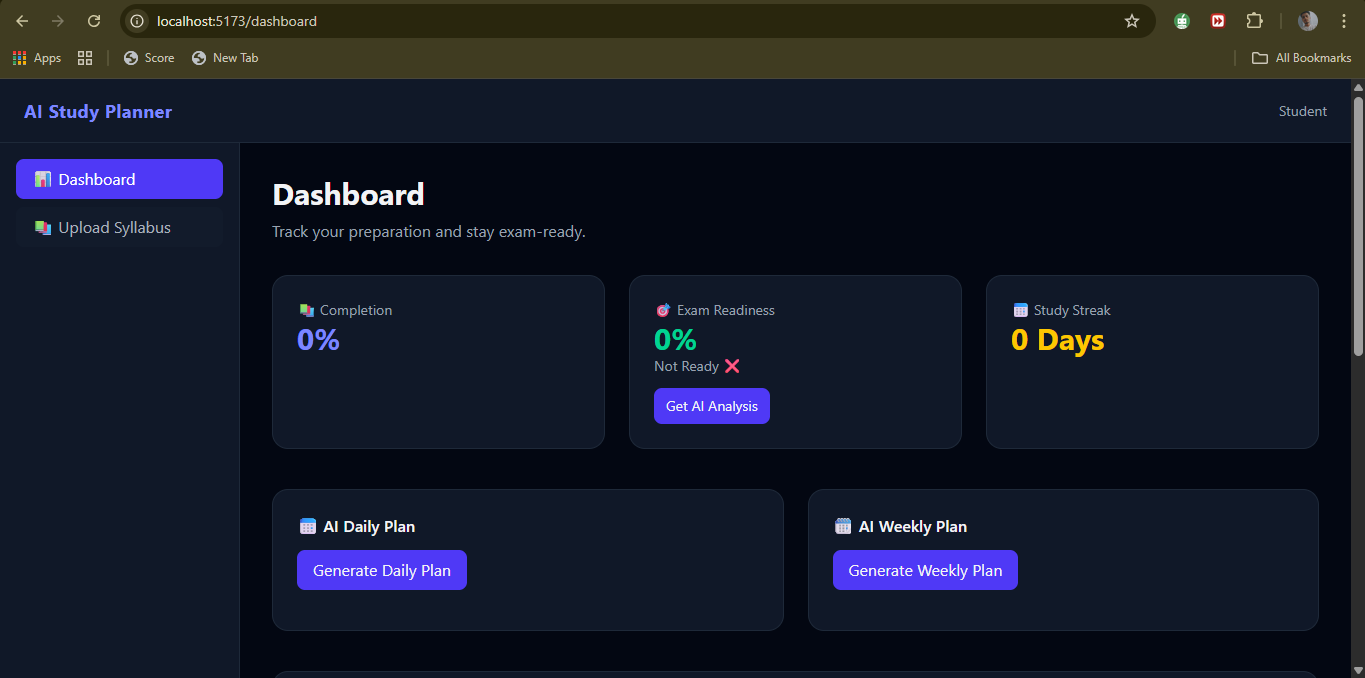
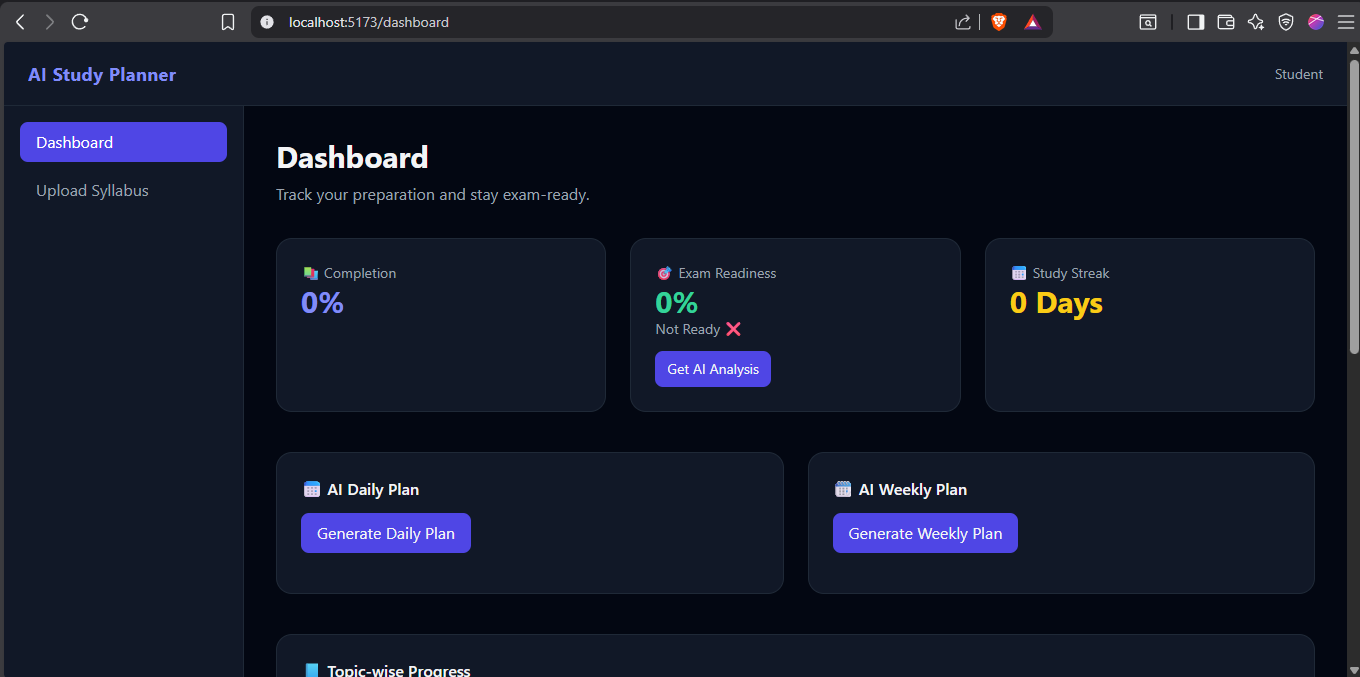
Updated Home page and readm

diff --git a/client/src/pages/Landing.jsx b/client/src/pages/Landing.jsx
@@ -1,119 +1,247 @@
 import { useNavigate } from "react-router-dom"
 import { motion } from "framer-motion"
+import {
+  Brain,
+  Upload,
+  BarChart3,
+  Target,
+  Sparkles,
+  BookOpen,
+} from "lucide-react"
 
 export default function Landing() {
   const navigate = useNavigate()
 
+  const features = [
+    {
+      icon: <Brain size={28} />,
+      title: "AI Smart Planning",
+      desc: "Generate personalized study roadmaps based on syllabus, goals, and exam timelines.",
+    },
+    {
+      icon: <Target size={28} />,
+      title: "Weakness Detection",
+      desc: "Identify weak subjects automatically and focus on the topics that matter most.",
+    },
+    {
+      icon: <BarChart3 size={28} />,
+      title: "Progress Tracking",
+      desc: "Visualize your consistency, completion rate, and overall exam readiness score.",
+    },
+    {
+      icon: <Upload size={28} />,
+      title: "Syllabus Upload",
+      desc: "Upload your syllabus or notes and let AI organize everything instantly.",
+    },
+    {
+      icon: <BookOpen size={28} />,
+      title: "Daily Study Goals",
+      desc: "Get structured daily tasks and maintain a productive study streak effortlessly.",
+    },
+    {
+      icon: <Sparkles size={28} />,
+      title: "AI Recommendations",
+      desc: "Receive intelligent suggestions for revision, practice, and improvement.",
+    },
+  ]
+
   return (
-    <div className="min-h-screen bg-gradient-to-br from-gray-950 via-gray-900 to-black text-gray-100 overflow-hidden">
+    <div className="min-h-screen bg-black text-white overflow-hidden">
       
+      {/* Background Glow */}
+      <div className="absolute top-0 left-0 w-full h-full overflow-hidden -z-10">
+        <div className="absolute top-20 left-20 w-72 h-72 bg-indigo-600/20 blur-[120px] rounded-full" />
+        <div className="absolute bottom-20 right-20 w-72 h-72 bg-purple-600/20 blur-[120px] rounded-full" />
+      </div>
+
       {/* Navbar */}
       <motion.nav
-        initial={{ opacity: 0, y: -40 }}
+        initial={{ opacity: 0, y: -30 }}
         animate={{ opacity: 1, y: 0 }}
-        transition={{ duration: 0.6 }}
-        className="flex items-center justify-between px-8 py-6"
+        transition={{ duration: 0.7 }}
+        className="flex items-center justify-between px-6 md:px-12 py-6 border-b border-white/10 backdrop-blur-md"
       >
-        <h1 className="text-xl font-bold tracking-wide text-indigo-400">
-          AI Study Planner
+        <h1 className="text-2xl font-bold tracking-wide">
+          <span className="text-indigo-500">AI</span> Study Planner
         </h1>
 
-        <button
-          onClick={() => navigate("/dashboard")}
-          className="px-4 py-2 rounded-lg bg-indigo-600 hover:bg-indigo-500 transition"
-        >
-          Get Started
-        </button>
+        <div className="flex gap-4">
+          <button
+            onClick={() => navigate("/upload")}
+            className="hidden md:block px-5 py-2 rounded-lg border border-gray-700 hover:border-indigo-500 hover:bg-gray-900 transition"
+          >
+            Upload
+          </button>
+
+          <button
+            onClick={() => navigate("/dashboard")}
+            className="px-5 py-2 rounded-lg bg-indigo-600 hover:bg-indigo-500 transition shadow-lg shadow-indigo-600/30"
+          >
+            Get Started
+          </button>
+        </div>
       </motion.nav>
 
       {/* Hero Section */}
-      <section className="flex flex-col items-center justify-center text-center px-6 mt-24">
+      <section className="relative flex flex-col items-center justify-center text-center px-6 pt-24 md:pt-32">
         
-        <motion.h2
+        <motion.div
+          initial={{ opacity: 0, scale: 0.9 }}
+          animate={{ opacity: 1, scale: 1 }}
+          transition={{ duration: 0.7 }}
+          className="mb-6 px-4 py-2 rounded-full border border-indigo-500/30 bg-indigo-500/10 text-indigo-300 text-sm"
+        >
+          🚀 AI Powered Academic Success Platform
+        </motion.div>
+
+        <motion.h1
           initial={{ opacity: 0, y: 40 }}
           animate={{ opacity: 1, y: 0 }}
           transition={{ duration: 0.8 }}
-          className="text-4xl md:text-6xl font-extrabold leading-tight"
+          className="text-5xl md:text-7xl font-extrabold leading-tight max-w-5xl"
         >
-          Study Smarter. <br />
-          <span className="text-indigo-400">Ace Exams with AI.</span>
-        </motion.h2>
+          Plan Smarter. <br />
+          Study Better. <br />
+          <span className="text-indigo-500">
+            Crack Exams with AI.
+          </span>
+        </motion.h1>
 
         <motion.p
           initial={{ opacity: 0 }}
           animate={{ opacity: 1 }}
           transition={{ delay: 0.3 }}
-          className="mt-6 max-w-2xl text-gray-400 text-lg"
+          className="mt-8 max-w-3xl text-gray-400 text-lg md:text-xl leading-relaxed"
         >
-          Personalized study plans, weakness detection, exam readiness
-          prediction, and progress tracking — all powered by intelligent AI.
+          Your all-in-one AI-powered study assistant for creating smart study
+          plans, analyzing weak topics, tracking progress, and improving exam
+          performance with intelligent recommendations.
         </motion.p>
 
         <motion.div
-          initial={{ opacity: 0, y: 30 }}
+          initial={{ opacity: 0, y: 25 }}
           animate={{ opacity: 1, y: 0 }}
           transition={{ delay: 0.5 }}
-          className="mt-10 flex gap-4 flex-wrap justify-center"
+          className="mt-10 flex flex-wrap gap-5 justify-center"
         >
           <button
             onClick={() => navigate("/dashboard")}
-            className="px-6 py-3 rounded-xl bg-indigo-600 hover:bg-indigo-500 transition text-lg font-medium shadow-lg shadow-indigo-600/20"
+            className="px-8 py-4 rounded-2xl bg-indigo-600 hover:bg-indigo-500 transition text-lg font-semibold shadow-xl shadow-indigo-600/30"
           >
             Start Planning
           </button>
 
           <button
             onClick={() => navigate("/upload")}
-            className="px-6 py-3 rounded-xl border border-gray-700 hover:bg-gray-800 transition text-lg"
+            className="px-8 py-4 rounded-2xl border border-gray-700 hover:border-indigo-500 hover:bg-gray-900 transition text-lg"
           >
             Upload Syllabus
           </button>
         </motion.div>
+
+        {/* Stats */}
+        <motion.div
+          initial={{ opacity: 0 }}
+          animate={{ opacity: 1 }}
+          transition={{ delay: 0.8 }}
+          className="grid grid-cols-2 md:grid-cols-4 gap-6 mt-20 w-full max-w-5xl"
+        >
+          {[
+            { value: "95%", label: "Study Efficiency" },
+            { value: "24/7", label: "AI Assistance" },
+            { value: "100+", label: "Topics Managed" },
+            { value: "10x", label: "Better Planning" },
+          ].map((item, index) => (
+            <div
+              key={index}
+              className="p-6 rounded-2xl bg-white/5 border border-white/10 backdrop-blur-md"
+            >
+              <h2 className="text-3xl font-bold text-indigo-400">
+                {item.value}
+              </h2>
+              <p className="mt-2 text-gray-400 text-sm">
+                {item.label}
+              </p>
+            </div>
+          ))}
+        </motion.div>
       </section>
 
-      {/* Features Section */}
-      <section className="mt-32 px-8 max-w-6xl mx-auto grid grid-cols-1 md:grid-cols-3 gap-8">
+      {/* Features */}
+      <section className="mt-32 px-6 md:px-12 max-w-7xl mx-auto">
+        
+        <motion.div
+          initial={{ opacity: 0, y: 30 }}
+          whileInView={{ opacity: 1, y: 0 }}
+          viewport={{ once: true }}
+          className="text-center"
+        >
+          <h2 className="text-4xl font-bold">
+            Powerful Features for Students
+          </h2>
 
-        {[
-          {
-            title: "📚 Smart Study Plans",
-            desc: "AI-generated daily and weekly plans based on your syllabus, readiness level, and consistency."
-          },
-          {
-            title: "🧠 Weakness Analysis",
-            desc: "Detect weak topics automatically and prioritize high-impact areas before exams."
-          },
-          {
-            title: "📊 Exam Readiness Predictor",
-            desc: "Track completion, study streak, and performance with real-time readiness scoring."
-          }
-        ].map((feature, index) => (
-          <motion.div
-            key={index}
-            initial={{ opacity: 0, y: 40 }}
-            whileInView={{ opacity: 1, y: 0 }}
-            transition={{ delay: index * 0.2 }}
-            viewport={{ once: true }}
-            className="p-6 rounded-2xl bg-gray-900 border border-gray-800 hover:border-indigo-600 transition"
+          <p className="mt-4 text-gray-400 max-w-2xl mx-auto">
+            Everything you need to manage your studies, improve consistency,
+            and maximize exam performance.
+          </p>
+        </motion.div>
+
+        <div className="grid grid-cols-1 md:grid-cols-2 lg:grid-cols-3 gap-8 mt-16">
+          {features.map((feature, index) => (
+            <motion.div
+              key={index}
+              initial={{ opacity: 0, y: 40 }}
+              whileInView={{ opacity: 1, y: 0 }}
+              transition={{ delay: index * 0.1 }}
+              viewport={{ once: true }}
+              className="group p-8 rounded-3xl bg-gradient-to-b from-gray-900 to-gray-950 border border-gray-800 hover:border-indigo-500 transition-all duration-300 hover:-translate-y-2"
+            >
+              <div className="w-14 h-14 flex items-center justify-center rounded-2xl bg-indigo-600/20 text-indigo-400 mb-6 group-hover:scale-110 transition">
+                {feature.icon}
+              </div>
+
+              <h3 className="text-2xl font-semibold">
+                {feature.title}
+              </h3>
+
+              <p className="mt-4 text-gray-400 leading-relaxed">
+                {feature.desc}
+              </p>
+            </motion.div>
+          ))}
+        </div>
+      </section>
+
+      {/* CTA Section */}
+      <section className="mt-36 px-6">
+        <motion.div
+          initial={{ opacity: 0, scale: 0.95 }}
+          whileInView={{ opacity: 1, scale: 1 }}
+          viewport={{ once: true }}
+          className="max-w-5xl mx-auto text-center p-12 rounded-[32px] bg-gradient-to-r from-indigo-600/20 to-purple-600/20 border border-white/10 backdrop-blur-xl"
+        >
+          <h2 className="text-4xl md:text-5xl font-bold leading-tight">
+            Ready to transform your study routine?
+          </h2>
+
+          <p className="mt-6 text-gray-300 text-lg max-w-2xl mx-auto">
+            Join the next generation of students using AI to stay productive,
+            focused, and exam-ready every single day.
+          </p>
+
+          <button
+            onClick={() => navigate("/dashboard")}
+            className="mt-10 px-8 py-4 rounded-2xl bg-indigo-600 hover:bg-indigo-500 transition text-lg font-semibold shadow-xl shadow-indigo-600/30"
           >
-            <h3 className="text-xl font-semibold">{feature.title}</h3>
-            <p className="mt-3 text-gray-400">
-              {feature.desc}
-            </p>
-          </motion.div>
-        ))}
-
+            Launch Dashboard
+          </button>
+        </motion.div>
       </section>
 
       {/* Footer */}
-      <motion.footer
-        initial={{ opacity: 0 }}
-        animate={{ opacity: 1 }}
-        transition={{ delay: 1 }}
-        className="mt-32 py-6 text-center text-gray-500 text-sm"
-      >
-        © 2026 AI Study Planner · Built for students 🚀
-      </motion.footer>
+      <footer className="mt-32 border-t border-white/10 py-8 text-center text-gray-500 text-sm">
+        © 2026 AI Study Planner · Designed for modern students 🚀
+      </footer>
     </div>
   )
 }

diff --git a/README.md b/README.md
@@ -60,23 +60,23 @@
 
 ### 🏠 Landing Page
 
-![Home Web](ai-study-planner/src/assets/screenshot/home.png)
+![Home Web](./client/src/assets/screenshot/home.png)
 
 ### 📊 Dashboard
 
-![Dashboard Web](ai-study-planner/src/assets/screenshot/dashboard.png)
+![Dashboard Web](./client/src/assets/screenshot/dashboard.png)
 
 ### 📂 Upload Syllabus
 
-![Upload](ai-study-planner/src/assets/screenshot/upload.png)
+![Upload](./client/src/assets/screenshot/upload.png)
 
 ### 🧠 AI Analysis
 
-![AI Analysis](ai-study-planner/src/assets/screenshot/AIAnalysis.png)
+![AI Analysis](./client/src/assets/screenshot/AIAnalysis.png)
 
 ### 📅 AI Study Plans
 
-![AI Study Plans](ai-study-planner/src/assets/screenshot/StudyPlans.png)
+![AI Study Plans](./client/src/assets/screenshot/StudyPlans.png)
 
 
 
